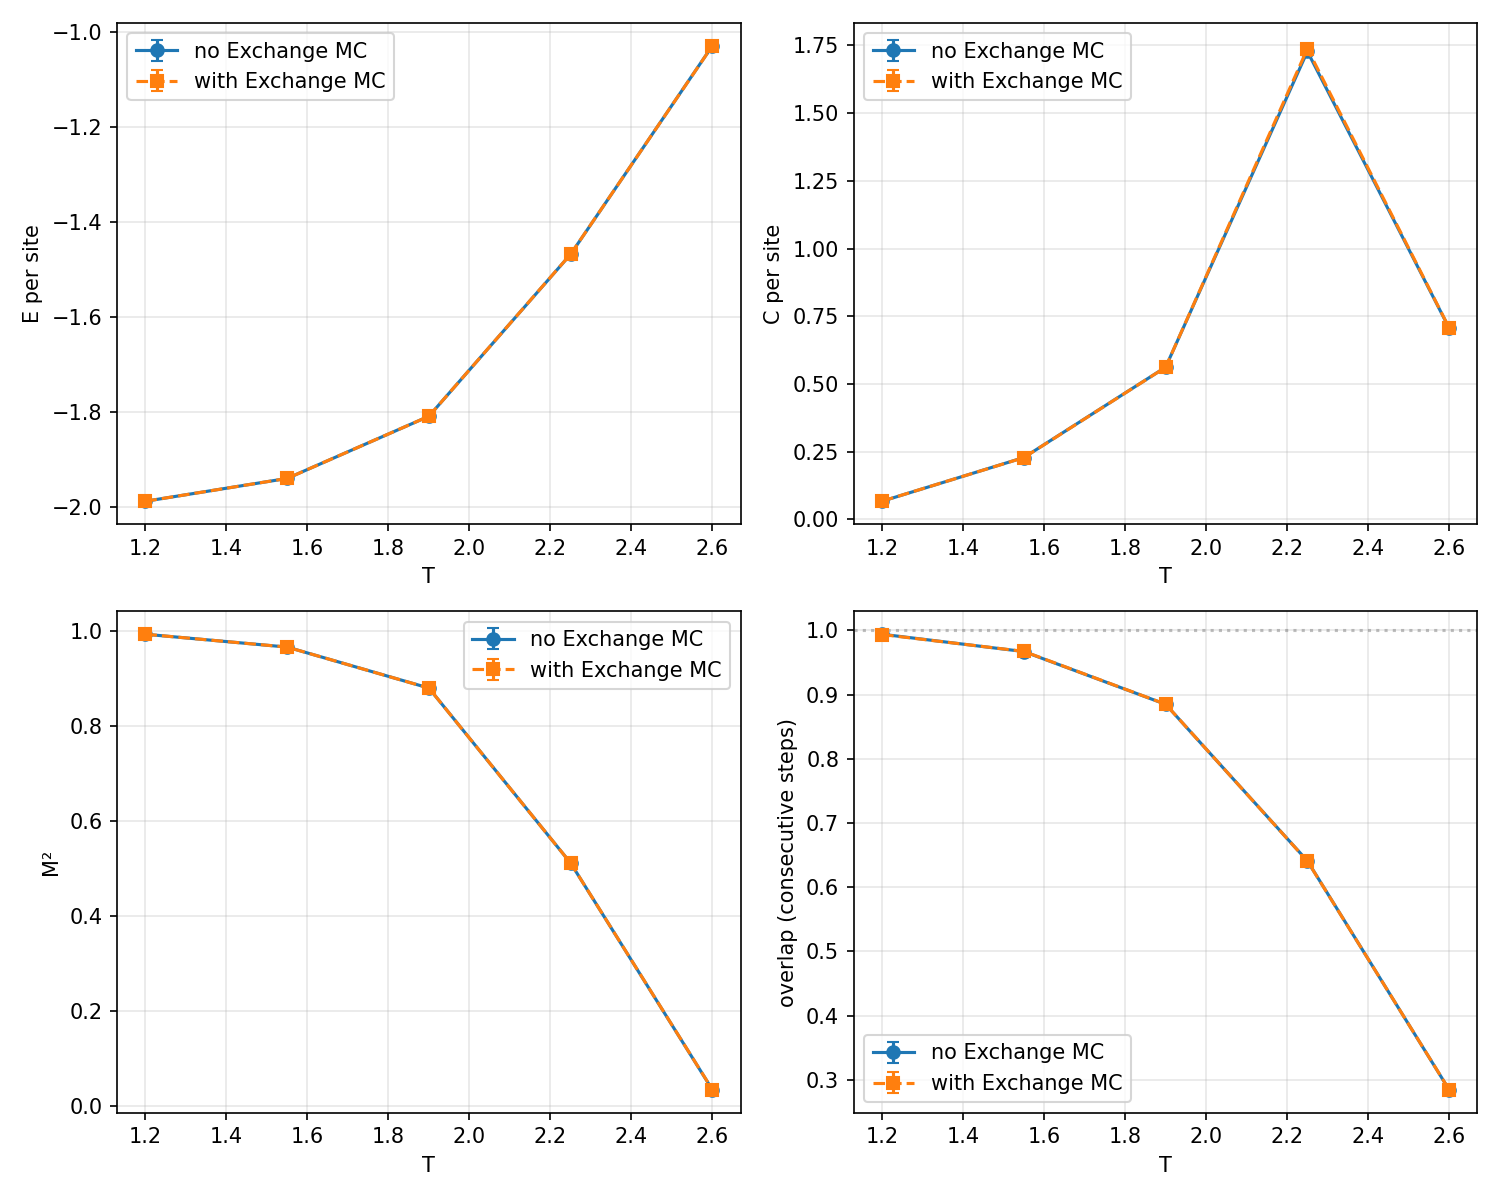
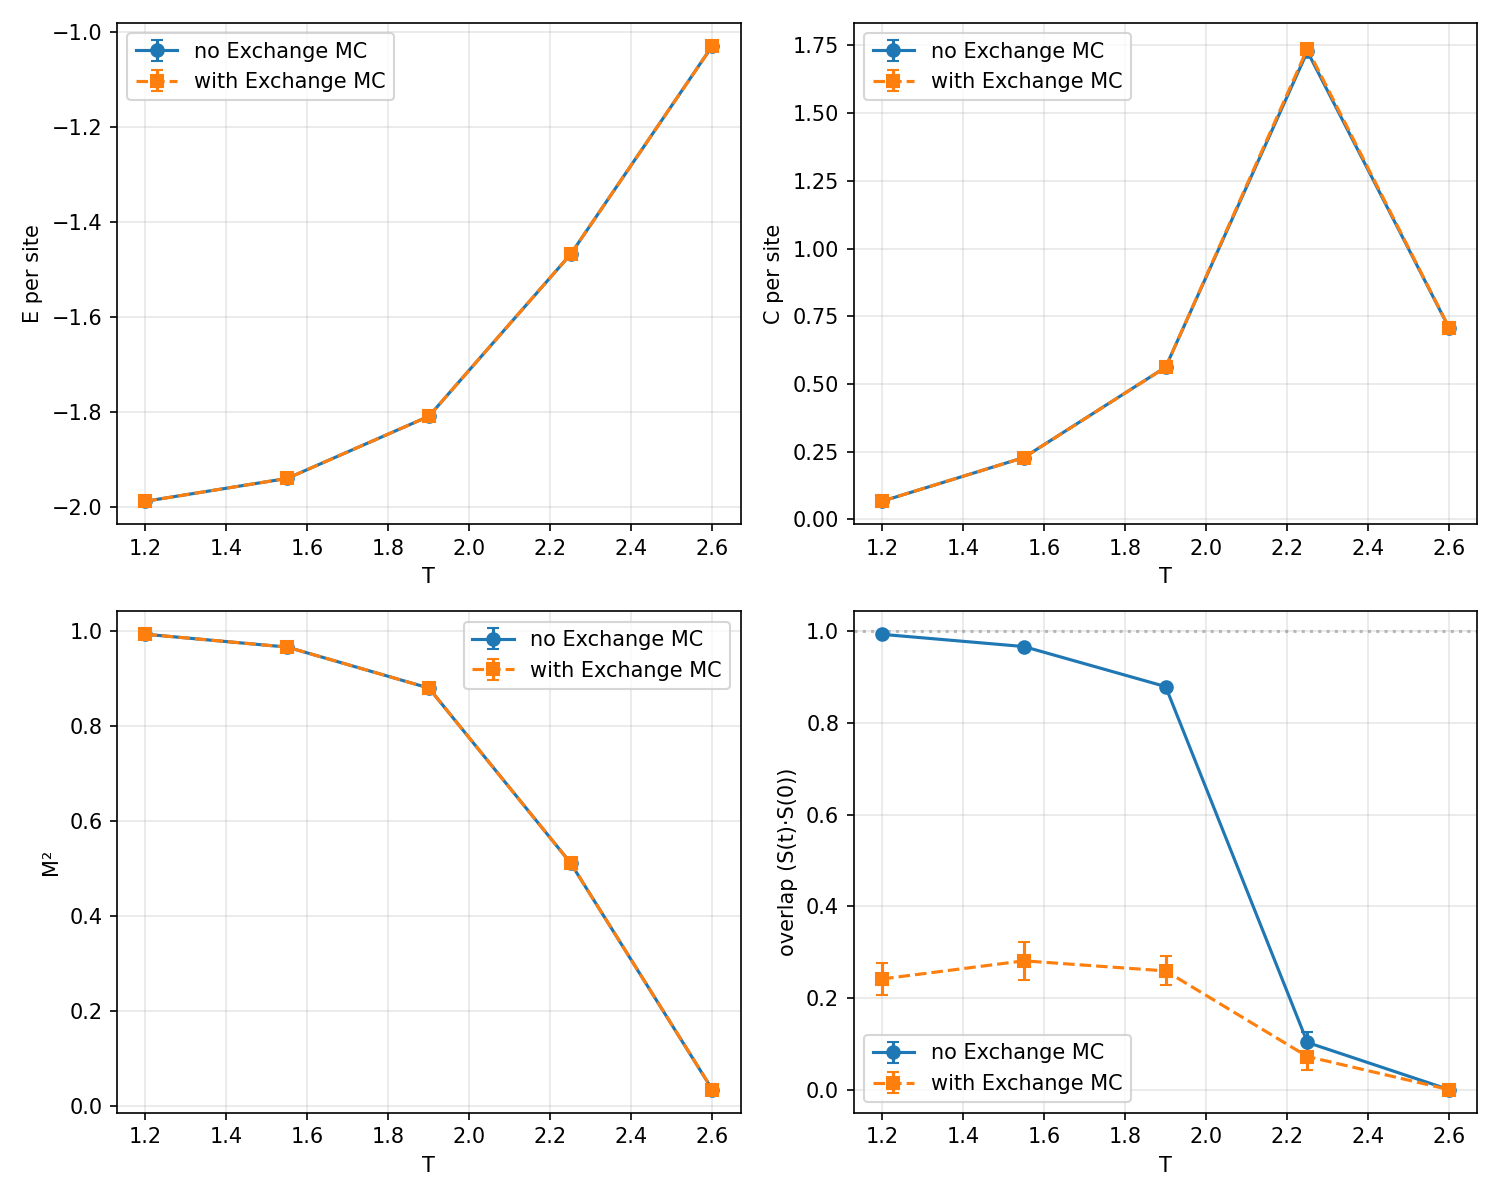
Fix Overlap Bug

diff --git a/src/main.c b/src/main.c
@@ -2,9 +2,9 @@
 #include "memory.h"
 
 /*
- * Overlap between current and previous spin config:
- *   overlap = (1/N) sum_i S_i(t) · S_i(t-1)
- * Lower overlap indicates better mixing (e.g. after Exchange MC swap).
+ * Overlap between current and initial (t=0) spin config:
+ *   overlap = (1/N) sum_i S_i(t) · S_i(0)
+ * Lower overlap indicates config has evolved away from initial state.
  */
 static double compute_overlap(struct BindStruct *X, int int_T) {
     int all_i, All_N;
@@ -20,7 +20,8 @@ static double compute_overlap(struct BindStruct *X, int int_T) {
     return sum / (double)All_N;
 }
 
-static void copy_spins_to_prev(struct BindStruct *X, int int_T) {
+/* Copy current config to init (t=0) for overlap. Called once at measurement start. */
+static void copy_spins_to_init(struct BindStruct *X, int int_T) {
     int All_N = X->Def.All_N;
     memcpy(X->Def.prev_sx[int_T], X->Def.sx[int_T], (size_t)All_N * sizeof(double));
     memcpy(X->Def.prev_sy[int_T], X->Def.sy[int_T], (size_t)All_N * sizeof(double));
@@ -209,9 +210,9 @@ int main(int argc, char **argv) {
         n_exchange_accept = 0;
         n_exchange_try = 0;
 
-        /* Copy initial config to prev for overlap (after burn-in) */
+        /* Store t=0 config for overlap = S(t)·S(0) (after burn-in, before measurement) */
         for (int_T = 0; int_T < num_temp; int_T++) {
-            copy_spins_to_prev(&(X.Bind), int_T);
+            copy_spins_to_init(&(X.Bind), int_T);
         }
 
         /* Measurement phase: update then record E/N, E^2, M^2, overlap each step. */
@@ -235,7 +236,6 @@ int main(int argc, char **argv) {
                 W.sample_E2[int_T] += e_total * e_total;
                 W.sample_M2[int_T] += magnetization_sq(&(X.Bind), int_T);
                 W.sample_overlap[int_T] += compute_overlap(&(X.Bind), int_T);
-                copy_spins_to_prev(&(X.Bind), int_T);
             }
         }
 

diff --git a/src/mc_update.c b/src/mc_update.c
@@ -71,20 +71,7 @@ int attempt_exchange(dsfmt_t *dsfmt, struct BindStruct *X, int int_T) {
         X->Phys.ratio_1[j] = rtmp;
     }
 
-    /* Swap prev (for overlap computation) */
-    for (all_i = 0; all_i < All_N; all_i++) {
-        tmp = X->Def.prev_sx[int_T][all_i];
-        X->Def.prev_sx[int_T][all_i] = X->Def.prev_sx[j][all_i];
-        X->Def.prev_sx[j][all_i] = tmp;
-
-        tmp = X->Def.prev_sy[int_T][all_i];
-        X->Def.prev_sy[int_T][all_i] = X->Def.prev_sy[j][all_i];
-        X->Def.prev_sy[j][all_i] = tmp;
-
-        tmp = X->Def.prev_sz[int_T][all_i];
-        X->Def.prev_sz[int_T][all_i] = X->Def.prev_sz[j][all_i];
-        X->Def.prev_sz[j][all_i] = tmp;
-    }
+    /* Do NOT swap prev (init_s): overlap = S(t)·S(0), init stays fixed per slot */
 
     return 1;
 }

diff --git a/scripts/benchmark_exchange_mc.py b/scripts/benchmark_exchange_mc.py
@@ -216,7 +216,7 @@ def plot_results(data_no_ex, data_with_ex, out_path: Path):
                 yerr=data_with_ex["overlap_err"],
                 fmt="s--", capsize=3, label="with Exchange MC")
     ax.set_xlabel("T")
-    ax.set_ylabel("overlap (consecutive steps)")
+    ax.set_ylabel("overlap (S(t)·S(0))")
     ax.legend()
     ax.grid(True, alpha=0.3)
     ax.axhline(1.0, color="gray", linestyle=":", alpha=0.5)

diff --git a/src/mc_def.h b/src/mc_def.h
@@ -47,7 +47,7 @@ struct DefineList {
 
     double *send_buffer, *recv_buffer;
     double **sx, **sy, **sz;
-    double **prev_sx, **prev_sy, **prev_sz; /* previous config for overlap */
+    double **prev_sx, **prev_sy, **prev_sz; /* S(0) at measurement start for overlap */
     double *All_sx, *All_sy, *All_sz;
     double *AG_sx, *AG_sy, *AG_sz;
     double **env_sx, **env_sy, **env_sz;

diff --git a/scripts/README.md b/scripts/README.md
@@ -41,6 +41,6 @@ python scripts/benchmark_exchange_mc.py --preset strong
 
 ### overlap による EXMC 効果
 
-- **overlap** = step 間のスピン配置の類似度 `(1/N)Σ S(t)·S(t-1)`
-- 高い overlap = 同じ配置に留まりやすい（critical slowing down）
+- **overlap** = t=0 と t の間の類似度 `(1/N)Σ S_i(t)·S_i(0)`
+- 高い overlap = 初期状態からあまり離れていない（critical slowing down）
 - **Exchange MC ありで overlap が低い** = 温度交換で phase space をよく探索できている

diff --git a/README.md b/README.md
@@ -60,7 +60,7 @@ Columns:
 3. `C_per_site`
 4. `M2`
 5. `acceptance`
-6. `overlap` — step 間のスピン配置の overlap `(1/N)Σ_i S_i(t)·S_i(t-1)`。低いほど mix が良い（Exchange MC の効果指標）
+6. `overlap` — t=0 と t の間の overlap `(1/N)Σ_i S_i(t)·S_i(0)`。低いほど初期状態から離れている。Exchange MC の効果指標
 
 Definitions:
 
